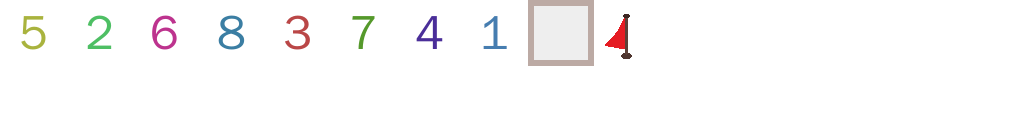
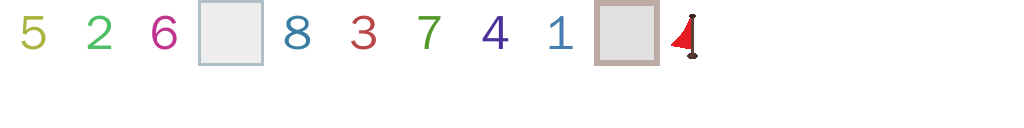
Added mine number indications

diff --git a/core/src/main/kotlin/game/minesweeper/screens/PlayScreen.kt b/core/src/main/kotlin/game/minesweeper/screens/PlayScreen.kt
@@ -32,8 +32,8 @@ enum class Mine {
 
 enum class Status {
     UNSOLVED,
-    SOLVED,
-    TAGGED_CLEAR,
+    CLEARED,
+    TAGGED_FLAG,
     TAGGED_QUESTION
 }
 
@@ -54,12 +54,23 @@ class PlayScreen(val batch: SpriteBatch): Screen, InputProcessor {
     private var mapWidth = 10    // should not exceed 26
     private var mapHeight = 10    // should not exceed 16
     private var mapSize = mapWidth * mapHeight
-    private var mineNumber: Int = mapSize / 10
+    private var totalMineNumber: Int = mapSize / 10
 
     private lateinit var mineMap: Array<Mine>
     private lateinit var mineMapStatus: Array<Status>
 
-    private lateinit var blockSprite: Sprite
+    private lateinit var spriteBlock: Sprite
+    private lateinit var spriteClearBlock: Sprite
+
+    private lateinit var spriteNum1: Sprite
+    private lateinit var spriteNum2: Sprite
+    private lateinit var spriteNum3: Sprite
+    private lateinit var spriteNum4: Sprite
+    private lateinit var spriteNum5: Sprite
+    private lateinit var spriteNum6: Sprite
+    private lateinit var spriteNum7: Sprite
+    private lateinit var spriteNum8: Sprite
+    private lateinit var spriteFlag: Sprite
 
 
     override fun show() {
@@ -78,8 +89,33 @@ class PlayScreen(val batch: SpriteBatch): Screen, InputProcessor {
 
         setupMineMap()
 
-        blockSprite = Sprite(assetManager.get("img/actors.pack", TextureAtlas::class.java).findRegion("Block"))
-        blockSprite.setBounds(0f, 0f, BLOCK_SIZE, BLOCK_SIZE)
+        val textureAtlas = assetManager.get("img/actors.pack", TextureAtlas::class.java)
+        spriteBlock = Sprite(textureAtlas.findRegion("Block"))
+        spriteBlock.setBounds(0f, 0f, BLOCK_SIZE, BLOCK_SIZE)
+
+        spriteClearBlock = Sprite(textureAtlas.findRegion("ClearBlock"))
+        spriteClearBlock.setBounds(0f, 0f, BLOCK_SIZE, BLOCK_SIZE)
+
+        spriteNum1 = Sprite(textureAtlas.findRegion("Num1"))
+        spriteNum2 = Sprite(textureAtlas.findRegion("Num2"))
+        spriteNum3 = Sprite(textureAtlas.findRegion("Num3"))
+        spriteNum4 = Sprite(textureAtlas.findRegion("Num4"))
+        spriteNum5 = Sprite(textureAtlas.findRegion("Num5"))
+        spriteNum6 = Sprite(textureAtlas.findRegion("Num6"))
+        spriteNum7 = Sprite(textureAtlas.findRegion("Num7"))
+        spriteNum8 = Sprite(textureAtlas.findRegion("Num8"))
+        spriteFlag = Sprite(textureAtlas.findRegion("Flag"))
+
+        spriteNum1.setBounds(0f, 0f, BLOCK_SIZE, BLOCK_SIZE)
+        spriteNum2.setBounds(0f, 0f, BLOCK_SIZE, BLOCK_SIZE)
+        spriteNum3.setBounds(0f, 0f, BLOCK_SIZE, BLOCK_SIZE)
+        spriteNum4.setBounds(0f, 0f, BLOCK_SIZE, BLOCK_SIZE)
+        spriteNum5.setBounds(0f, 0f, BLOCK_SIZE, BLOCK_SIZE)
+        spriteNum6.setBounds(0f, 0f, BLOCK_SIZE, BLOCK_SIZE)
+        spriteNum7.setBounds(0f, 0f, BLOCK_SIZE, BLOCK_SIZE)
+        spriteNum8.setBounds(0f, 0f, BLOCK_SIZE, BLOCK_SIZE)
+        spriteFlag.setBounds(0f, 0f, BLOCK_SIZE, BLOCK_SIZE)
+
     }
 
     fun setupMineMap() {
@@ -87,7 +123,7 @@ class PlayScreen(val batch: SpriteBatch): Screen, InputProcessor {
         mineMap = Array(mapSize, {i -> Mine.EMPTY })
 
         val random = Random()
-        for (i in 0..mineNumber - 1) {
+        for (i in 0..totalMineNumber - 1) {
             var pos = random.nextInt(mapSize)
             while (mineMap[pos] == Mine.MINE) {
                 pos = random.nextInt(mapSize)
@@ -127,6 +163,7 @@ class PlayScreen(val batch: SpriteBatch): Screen, InputProcessor {
                 }
             }
         }
+
     }
 
     fun printMap() {
@@ -178,9 +215,76 @@ class PlayScreen(val batch: SpriteBatch): Screen, InputProcessor {
 
         for ((index, value) in mineMapStatus.withIndex()) {
             val x = WIDTH / 2f - (mapWidth / 2f - (index % mapWidth)) * BLOCK_SIZE
-            val y = (HEIGHT - 6f) / 2f - (mapHeight / 2f - 1 - (index / mapWidth - 1)) * BLOCK_SIZE
-            blockSprite.setPosition(x, y)
-            blockSprite.draw(batch)
+            val y = (HEIGHT - 6f) / 2f + (mapHeight / 2f - index / mapWidth - 1) * BLOCK_SIZE
+
+
+            if (value == Status.UNSOLVED) {
+                spriteBlock.setPosition(x, y)
+                spriteBlock.draw(batch)
+            }
+            else if (value == Status.CLEARED) {
+                spriteClearBlock.setPosition(x, y)
+                spriteClearBlock.draw(batch)
+
+                when (mineMap[index]) {
+                    Mine.ONE -> {
+                        spriteNum1.setPosition(x, y)
+                        spriteNum1.draw(batch)
+                    }
+
+                    Mine.TWO -> {
+                        spriteNum2.setPosition(x, y)
+                        spriteNum2.draw(batch)
+                    }
+
+                    Mine.THREE -> {
+                        spriteNum3.setPosition(x, y)
+                        spriteNum3.draw(batch)
+                    }
+
+                    Mine.FOUR -> {
+                        spriteNum4.setPosition(x, y)
+                        spriteNum4.draw(batch)
+                    }
+
+                    Mine.FIVE -> {
+                        spriteNum5.setPosition(x, y)
+                        spriteNum5.draw(batch)
+                    }
+
+                    Mine.SIX -> {
+                        spriteNum6.setPosition(x, y)
+                        spriteNum6.draw(batch)
+                    }
+
+                    Mine.SEVEN -> {
+                        spriteNum7.setPosition(x, y)
+                        spriteNum7.draw(batch)
+                    }
+
+                    Mine.EIGHT -> {
+                        spriteNum8.setPosition(x, y)
+                        spriteNum8.draw(batch)
+                    }
+
+                    Mine.MINE -> {
+                        spriteFlag.setPosition(x, y)
+                        spriteFlag.draw(batch)
+                    }
+
+                    else -> {
+
+                    }
+
+                }
+            }
+            else if (value == Status.TAGGED_FLAG) {
+                // draw flag
+            }
+            else if (value == Status.TAGGED_QUESTION) {
+                // draw question mark
+            }
+
         }
         batch.end()
     }
@@ -221,27 +325,47 @@ class PlayScreen(val batch: SpriteBatch): Screen, InputProcessor {
     override fun touchDown(screenX: Int, screenY: Int, pointer: Int, button: Int): Boolean {
         val vec3 = Vector3(screenX.toFloat(), screenY.toFloat(), 0f)
         camera.unproject(vec3)
-        val mapCoord = translateWorldCoordToMapCoord(vec3.x, vec3.y)
+        val (coordX, coordY) = translateWorldCoordToMapCoord(vec3.x, vec3.y)
 
         when (button) {
             Input.Buttons.LEFT -> {
 
                 // clicked on mine map
-                if (mapCoord.x >=0 && mapCoord.y >= 0) {
-                    println("Left button pressed at (${mapCoord.x}, ${mapCoord.y})")
+                if (coordX >=0 && coordY >= 0) {
+                    when (mineMapStatus[coordY * mapWidth + coordX]) {
+                        Status.UNSOLVED -> {
+                            val mine = mineMap[coordY * mapWidth + coordX]
+
+                            if (mine == Mine.MINE) {
+                                // explode...
+                                println("explode!!!")
+                            }
+                            else {
+                                if (mine == Mine.EMPTY) {
+                                    checkSurroundingBlocks(coordX, coordY)
+                                }
+                                mineMapStatus[coordY * mapWidth + coordX] = Status.CLEARED
+                            }
+                        }
+                        else -> {}
+                    }
                 }
             }
 
             Input.Buttons.RIGHT -> {
 
                 // clicked on mine map
-                if (mapCoord.x >=0 && mapCoord.y >= 0) {
+                if (coordX >=0 && coordY >= 0) {
                     println("Right button pressed at (${vec3.x}, ${vec3.y})")
                 }
             }
         }
 
         return false
+    }
+
+    private fun checkSurroundingBlocks(x: Int, y: Int) {
+
     }
 
     override fun scrolled(amount: Int): Boolean {
